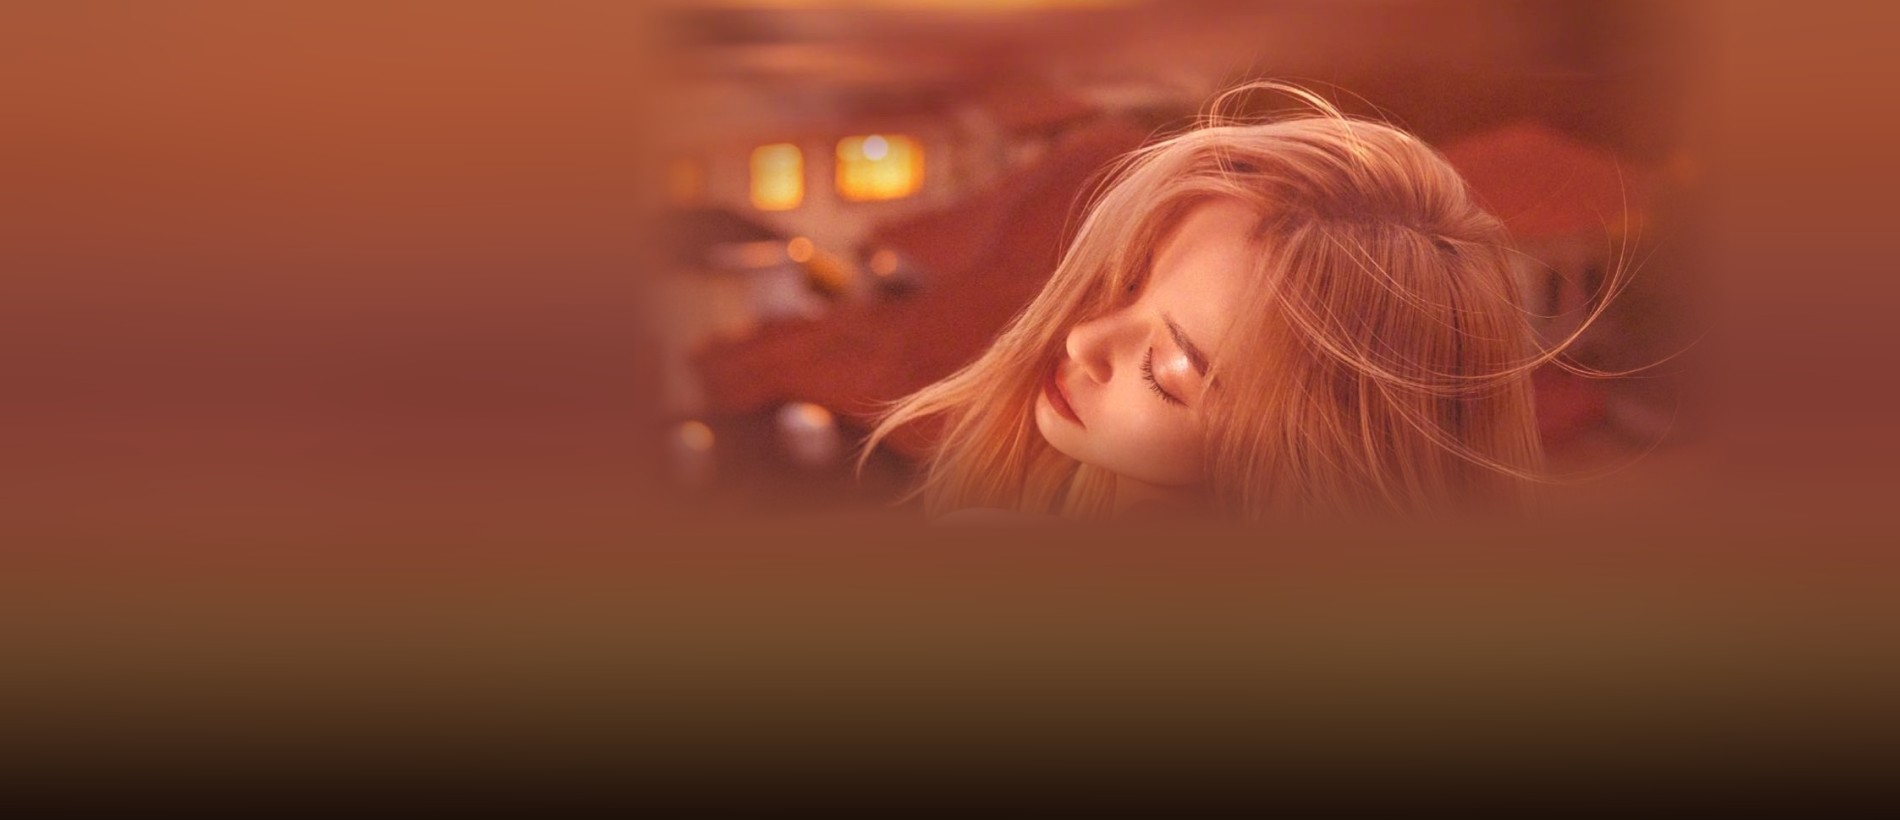
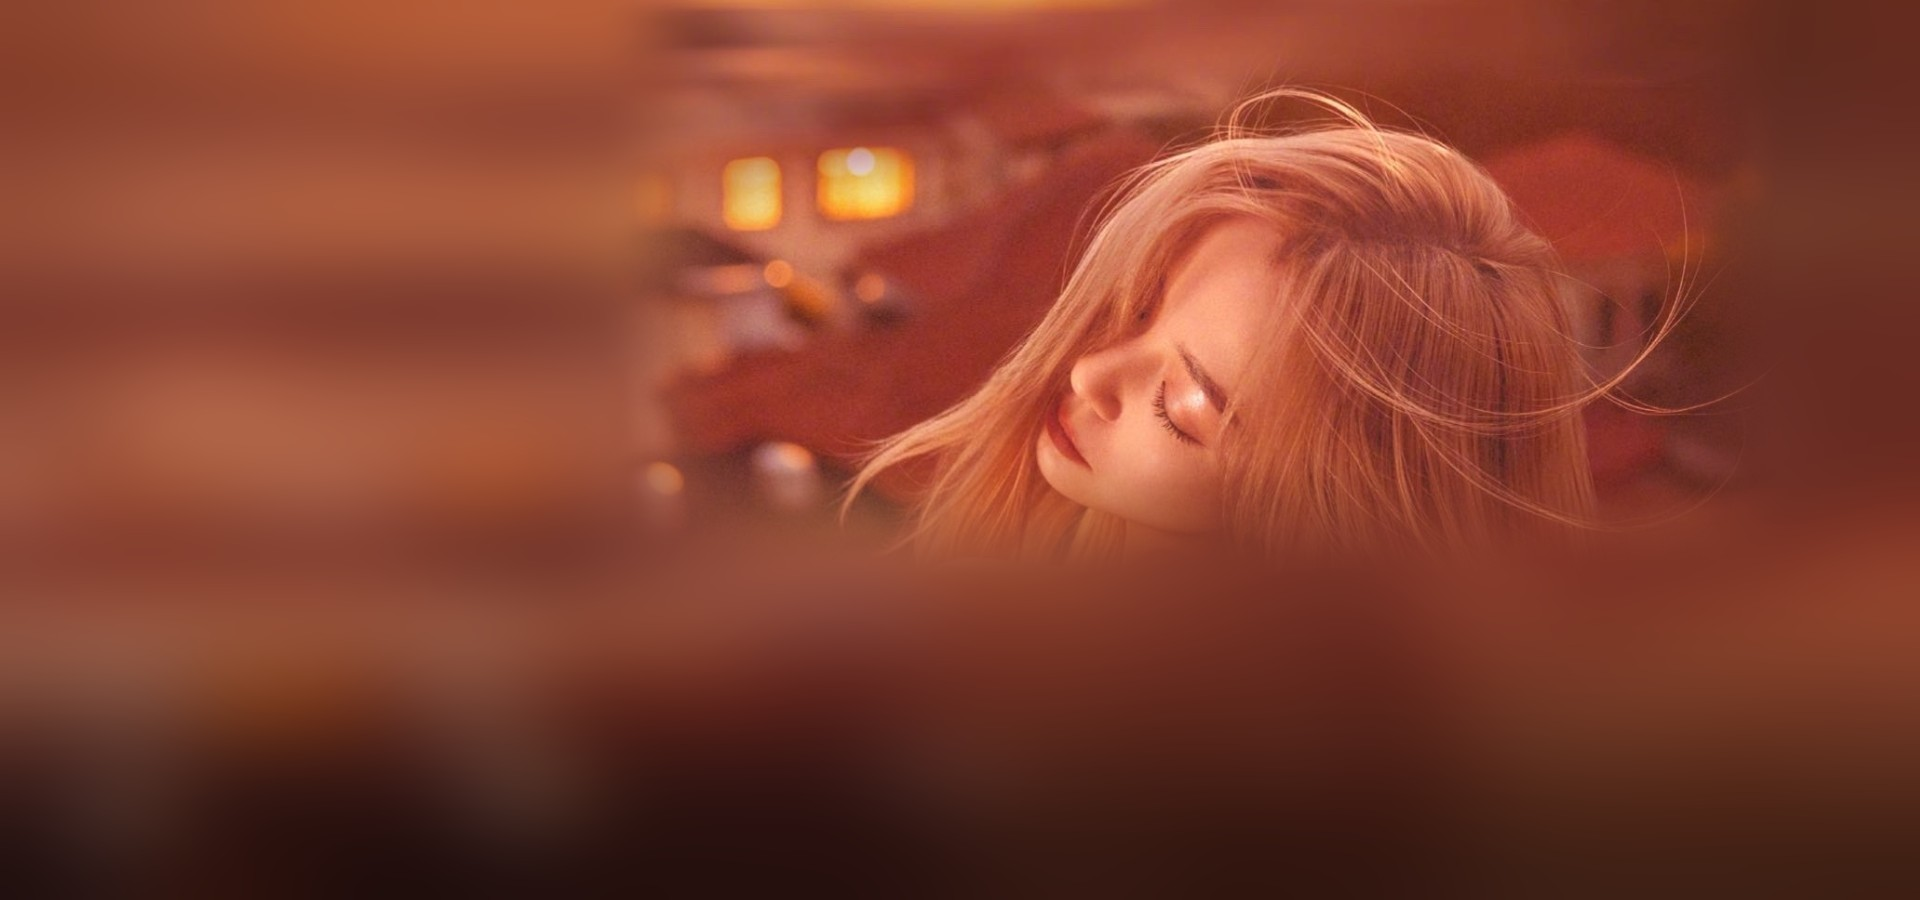
fix: 消除个人档案上下黑边，重做首屏背景图构图与尺寸
个人档案
- NOVA 皮肤 .sec { padding: 128px 0 } 后加载覆盖了基础样式
  .sec-profile { padding: 0 }，导致板块上下各 128px 只剩纯底色，
  仅中间 .resume-stage 有写真，形成笔直硬黑边。
- 用 #profile.sec-profile 恢复 0 内距，并给 section 本身补同一张
  写真作兜底（入场位移、不同视口都不再露纯色边）；亮色模式同步。
- 桌面端给 .resume-stage 留 160px 内部原生滚动空间，保证「一个整体
  板块内部正常滑动、只有跨边界才叠化」的既有口径不回归。

首屏
- 用户指出人脸下方一大片区域突兀：DOM 实测无矩形元素，是
  hero-focus.jpg 自身 y≈500-660 整片几乎同色的纯垂直渐变。
- 重做背景图：画布 1900x820 -> 1920x900；人物片放大 1.10 倍、
  下缘羽化 120->150px；下半幅改为同场景夜景/发梢虚化延展，保留
  光斑与景深层次，不再是纯色块；渐暗幅度 0.84 -> 0.62。
- 遮罩垂直渐暗起点 64% -> 52%、底部 0.58 -> 0.72，让空区自然退到
  背景；推镜幅度保持 1.022 不变，脸中心仍锚定 (60%, 45%)。
- 首屏图覆盖同名文件，index.html 加 ?v=8 破缓存。

验证
- 7 组视口（1920x803 / 1920x869 / 1440x900 / 768x1024 / 390x844 /
  844x390 / 亮色）实测 profile topGap/bottomGap 全为 0、零横向溢出。
- 动效回归：hero->profile 进场叠化峰值 0.72；档案内部滚轮
  1062->1182 零叠化；音乐板块 8 次滚轮严格 +120 零叠化；分页器正常。
- CSS 括号 412/412、5 个 JS node --check 通过。
- 全站 58 页统一 skin-nova.css?v=8。

diff --git a/assets/css/skin-nova.css b/assets/css/skin-nova.css
@@ -185,7 +185,8 @@ body::after {
     linear-gradient(90deg,
       rgba(5, 8, 12, .96) 0%, rgba(5, 8, 12, .93) 22%,
       rgba(5, 8, 12, .68) 40%, rgba(5, 8, 12, .10) 62%, rgba(5, 8, 12, .02) 100%),
-    linear-gradient(180deg, rgba(5, 8, 12, .40) 0%, transparent 20%, transparent 64%, rgba(5, 8, 12, .58) 100%);
+    /* 下半幅渐暗提前，让人脸与数据条之间的空区自然退到背景 */
+    linear-gradient(180deg, rgba(5, 8, 12, .40) 0%, transparent 20%, transparent 52%, rgba(5, 8, 12, .72) 100%);
 }
 .orb { opacity: .10; filter: blur(90px); }
 .orb-1 { background: radial-gradient(circle, rgba(30, 200, 255, .45), transparent 65%); }
@@ -1298,4 +1299,30 @@ html[data-theme="light"] .fp-veil-rule {
   .hero-year { top: 3vh; font-size: clamp(48px, 11vh, 78px); }
   .hero-watermark { display: none; }
   .scroll-hint { display: none; }
+}
+
+/* ==========================================================================
+   19. 个人档案：整段铺满写真，消除上下黑边
+   --------------------------------------------------------------------------
+   第 6 段 `.sec { padding: 128px 0 }` 在皮肤层，覆盖了基础样式里的
+   `.sec-profile { padding: 0 }` → #profile 上下各 128px 只剩纯底色，
+   只有中间 .resume-stage 有照片，于是出现上下笔直硬黑边。
+   这里用 ID 级特异性恢复 0 内距，并给 section 本身补同一张写真兜底
+   （板块入场位移、不同视口下都不会再露出纯色边）。其他板块不受影响。  */
+#profile.sec-profile {
+  padding: 0;
+  background:
+    linear-gradient(180deg, rgba(6, 9, 13, .76), rgba(6, 9, 13, .88)),
+    url('../../assets/img/profile.jpg') center 28% / cover no-repeat;
+}
+html[data-theme="light"] #profile.sec-profile {
+  background:
+    linear-gradient(180deg, rgba(233, 239, 243, .78), rgba(233, 239, 243, .90)),
+    url('../../assets/img/profile.jpg') center 28% / cover no-repeat;
+}
+/* 桌面端：档案作为「一个整体板块」留 160px 内部原生滚动空间，
+   板块内正常滑动、只有跨边界才叠化；背景仍是整段连续的一张写真。
+   移动端 (<1024) 本就降级为整页原生滚动，保持 100vh 不额外留白。 */
+@media (min-width: 1024px) {
+  #profile.sec-profile .resume-stage { min-height: calc(100vh + 160px); }
 }

diff --git a/index.html b/index.html
@@ -74,7 +74,7 @@
 }
 </script>
 <link rel="stylesheet" href="assets/css/style.css?v=53">
-<link rel="stylesheet" href="assets/css/skin-nova.css?v=7">
+<link rel="stylesheet" href="assets/css/skin-nova.css?v=8">
 <link rel="alternate" type="application/rss+xml" title="张靓颖资料站更新" href="feed.xml">
 <link rel="manifest" href="manifest.webmanifest">
 <meta name="theme-color" content="#06090d">
@@ -112,7 +112,7 @@
 <!-- ============ 首屏 ============ -->
 <section id="hero">
   <div class="hero-bg">
-    <img class="hero-photo" src="assets/img/hero-focus.jpg" alt="张靓颖《不知道说什么》专辑视觉" fetchpriority="high" decoding="async">
+    <img class="hero-photo" src="assets/img/hero-focus.jpg?v=8" alt="张靓颖《不知道说什么》专辑视觉" fetchpriority="high" decoding="async">
     <div class="hero-photo-overlay"></div>
     <div class="orb orb-1"></div>
     <div class="orb orb-2"></div>

diff --git a/all.html b/all.html
@@ -28,7 +28,7 @@
 <meta name="twitter:description" content="张靓颖粉丝资料站完整资料页：个人档案、7 张正式录音室专辑完整曲目与真实封面、第八张专辑先行曲动态、影视金曲 OST。">
 <meta name="twitter:image" content="https://janez808.github.io/assets/img/og-share.png">
 <link rel="stylesheet" href="assets/css/style.css?v=53">
-<link rel="stylesheet" href="assets/css/skin-nova.css?v=7">
+<link rel="stylesheet" href="assets/css/skin-nova.css?v=8">
 <script type="application/ld+json">
 {
   "@context": "https://schema.org",

diff --git a/albums/album-0.html b/albums/album-0.html
@@ -178,7 +178,7 @@
 }
 </script>
 <link rel="stylesheet" href="../assets/css/style.css?v=53">
-<link rel="stylesheet" href="../assets/css/skin-nova.css?v=7">
+<link rel="stylesheet" href="../assets/css/skin-nova.css?v=8">
 <link rel="alternate" type="application/rss+xml" title="张靓颖资料站更新" href="../feed.xml">
 <link rel="manifest" href="../manifest.webmanifest">
 <meta name="theme-color" content="#06090d">

diff --git a/albums/album-1.html b/albums/album-1.html
@@ -162,7 +162,7 @@
 }
 </script>
 <link rel="stylesheet" href="../assets/css/style.css?v=53">
-<link rel="stylesheet" href="../assets/css/skin-nova.css?v=7">
+<link rel="stylesheet" href="../assets/css/skin-nova.css?v=8">
 <link rel="alternate" type="application/rss+xml" title="张靓颖资料站更新" href="../feed.xml">
 <link rel="manifest" href="../manifest.webmanifest">
 <meta name="theme-color" content="#06090d">

diff --git a/albums/album-11.html b/albums/album-11.html
@@ -130,7 +130,7 @@
 }
 </script>
 <link rel="stylesheet" href="../assets/css/style.css?v=53">
-<link rel="stylesheet" href="../assets/css/skin-nova.css?v=7">
+<link rel="stylesheet" href="../assets/css/skin-nova.css?v=8">
 <link rel="alternate" type="application/rss+xml" title="张靓颖资料站更新" href="../feed.xml">
 <link rel="manifest" href="../manifest.webmanifest">
 <meta name="theme-color" content="#06090d">

diff --git a/albums/album-12.html b/albums/album-12.html
@@ -146,7 +146,7 @@
 }
 </script>
 <link rel="stylesheet" href="../assets/css/style.css?v=53">
-<link rel="stylesheet" href="../assets/css/skin-nova.css?v=7">
+<link rel="stylesheet" href="../assets/css/skin-nova.css?v=8">
 <link rel="alternate" type="application/rss+xml" title="张靓颖资料站更新" href="../feed.xml">
 <link rel="manifest" href="../manifest.webmanifest">
 <meta name="theme-color" content="#06090d">

diff --git a/albums/album-13.html b/albums/album-13.html
@@ -170,7 +170,7 @@
 }
 </script>
 <link rel="stylesheet" href="../assets/css/style.css?v=53">
-<link rel="stylesheet" href="../assets/css/skin-nova.css?v=7">
+<link rel="stylesheet" href="../assets/css/skin-nova.css?v=8">
 <link rel="alternate" type="application/rss+xml" title="张靓颖资料站更新" href="../feed.xml">
 <link rel="manifest" href="../manifest.webmanifest">
 <meta name="theme-color" content="#06090d">

diff --git a/albums/album-14.html b/albums/album-14.html
@@ -106,7 +106,7 @@
 }
 </script>
 <link rel="stylesheet" href="../assets/css/style.css?v=53">
-<link rel="stylesheet" href="../assets/css/skin-nova.css?v=7">
+<link rel="stylesheet" href="../assets/css/skin-nova.css?v=8">
 <link rel="alternate" type="application/rss+xml" title="张靓颖资料站更新" href="../feed.xml">
 <link rel="manifest" href="../manifest.webmanifest">
 <meta name="theme-color" content="#06090d">

diff --git a/albums/album-15.html b/albums/album-15.html
@@ -226,7 +226,7 @@
 }
 </script>
 <link rel="stylesheet" href="../assets/css/style.css?v=53">
-<link rel="stylesheet" href="../assets/css/skin-nova.css?v=7">
+<link rel="stylesheet" href="../assets/css/skin-nova.css?v=8">
 <link rel="alternate" type="application/rss+xml" title="张靓颖资料站更新" href="../feed.xml">
 <link rel="manifest" href="../manifest.webmanifest">
 <meta name="theme-color" content="#06090d">

diff --git a/albums/album-16.html b/albums/album-16.html
@@ -306,7 +306,7 @@
 }
 </script>
 <link rel="stylesheet" href="../assets/css/style.css?v=53">
-<link rel="stylesheet" href="../assets/css/skin-nova.css?v=7">
+<link rel="stylesheet" href="../assets/css/skin-nova.css?v=8">
 <link rel="alternate" type="application/rss+xml" title="张靓颖资料站更新" href="../feed.xml">
 <link rel="manifest" href="../manifest.webmanifest">
 <meta name="theme-color" content="#06090d">

diff --git a/albums/album-17.html b/albums/album-17.html
@@ -274,7 +274,7 @@
 }
 </script>
 <link rel="stylesheet" href="../assets/css/style.css?v=53">
-<link rel="stylesheet" href="../assets/css/skin-nova.css?v=7">
+<link rel="stylesheet" href="../assets/css/skin-nova.css?v=8">
 <link rel="alternate" type="application/rss+xml" title="张靓颖资料站更新" href="../feed.xml">
 <link rel="manifest" href="../manifest.webmanifest">
 <meta name="theme-color" content="#06090d">
